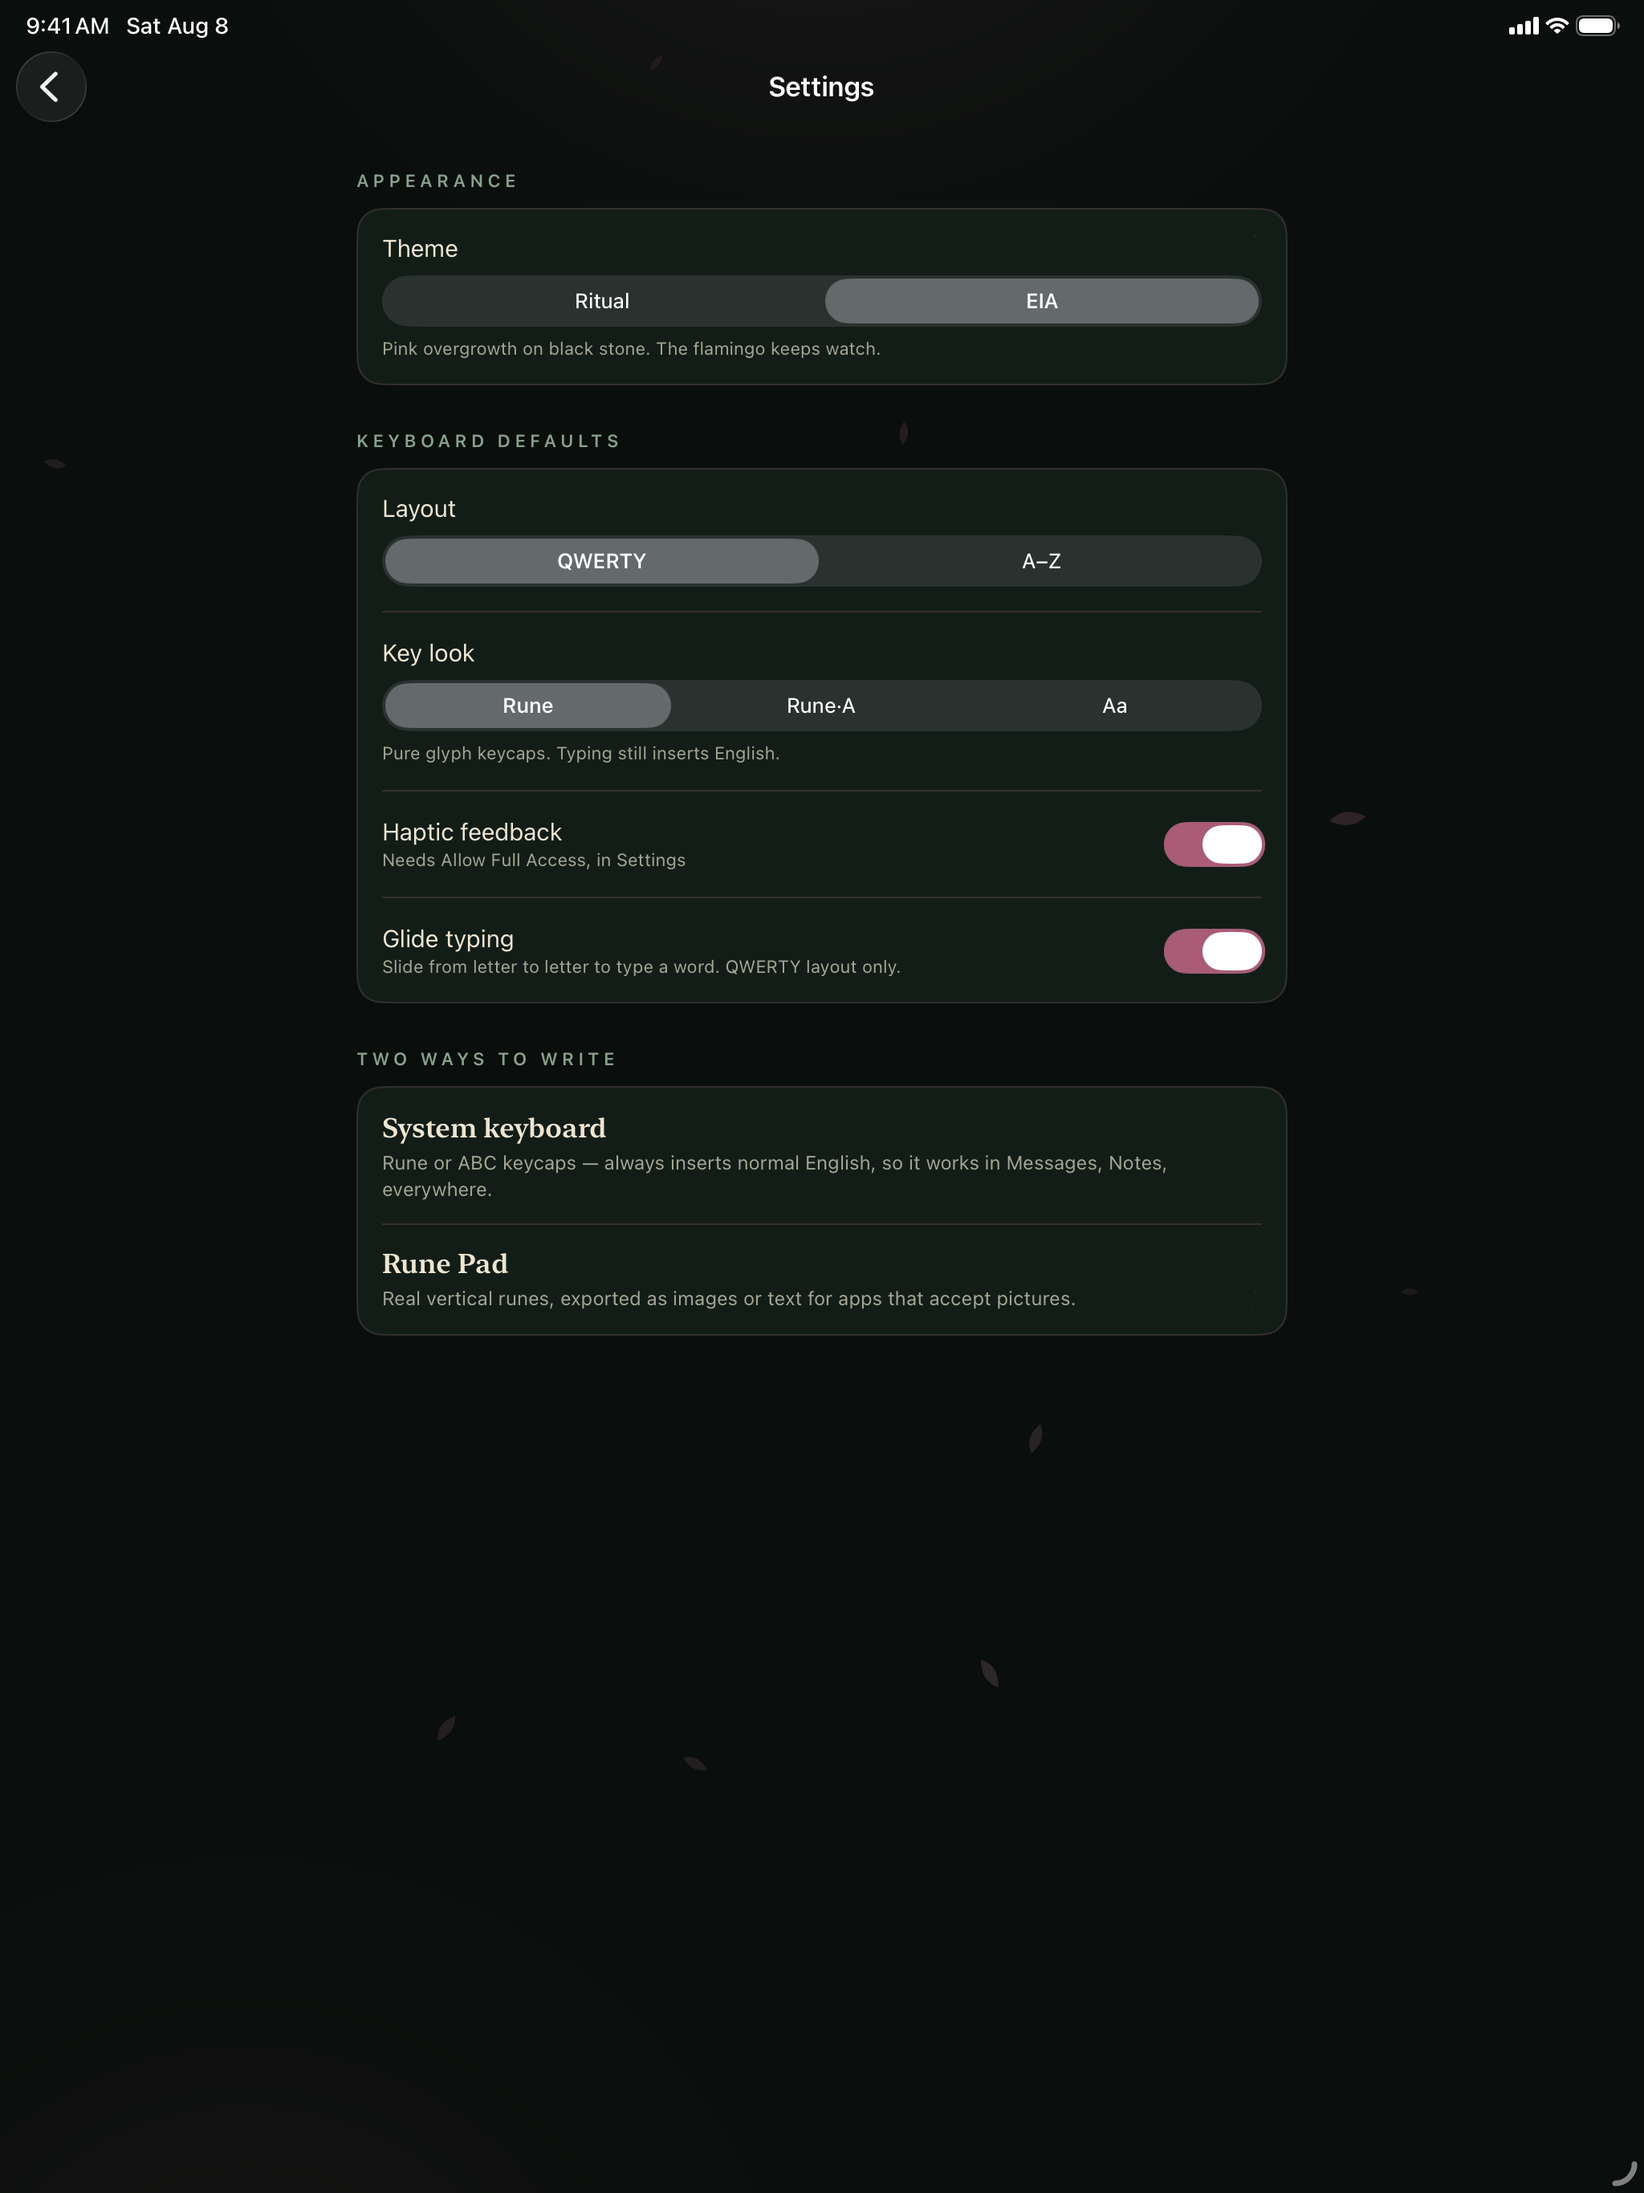
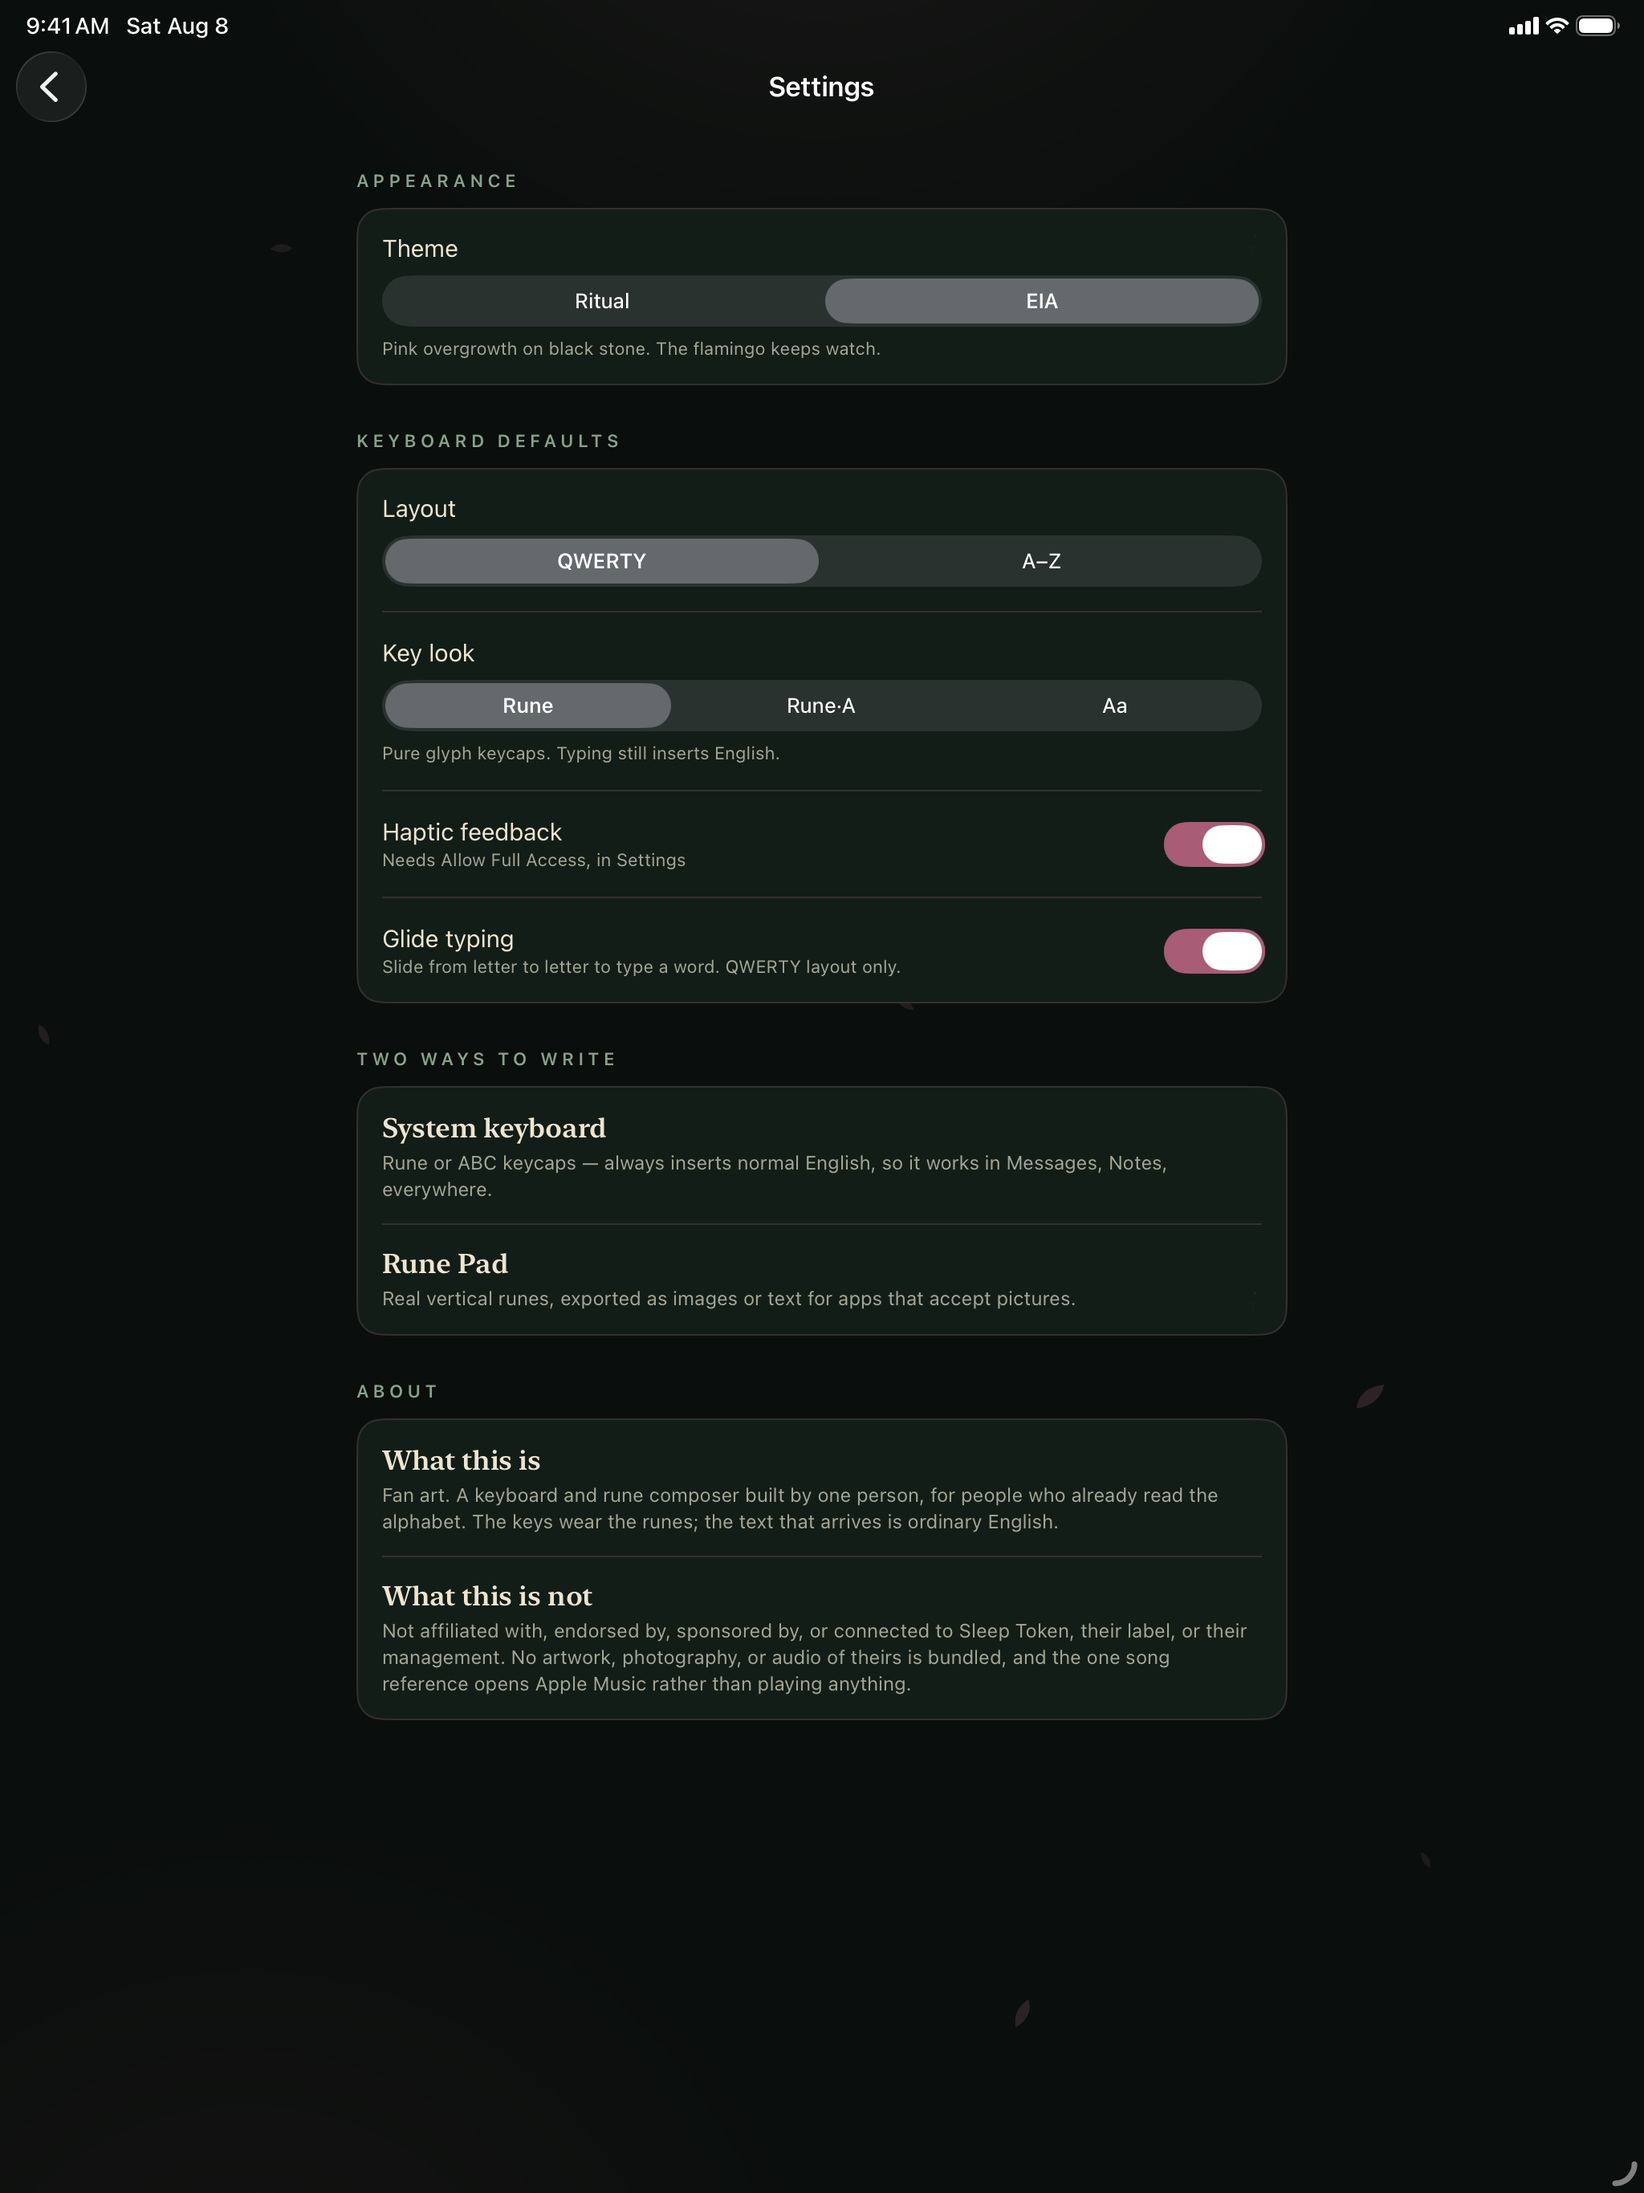
State plainly what this project is and is not
The rename made this worse rather than better: "Ceremonial Scripts" tells a
newcomer nothing about whose alphabet this is, so someone arriving without context
now has less to go on than when the app was named after the thing it does.
PRODUCT.md already asked for labelling that is part of the design and for first-run
comprehension without context; one line in the home footer was not that.

Settings gains an About section carrying "What this is" and "What this is not". It
reuses the waysRow shape from "Two ways to write" exactly -- same card, same type
roles -- so it reads as native rather than as a legal block bolted to the bottom.
It deliberately hides no Jerry: a new spot would raise the hunt's totalCount, and
the one card whose job is to be unambiguous is the wrong place to hide something.

The README carried the band's name as its own H1 and told users to look for "Sleep
Token KB" in Settings, which the rename had made false. Both are fixed, along with
the OG image generators that baked the old name into rendered art, and a test-count
badge that had drifted to 252.

The Legal section no longer speculates that public distribution "would need rights
clearance" -- a lay legal conclusion in a document the App Store listing links to.
It now states what is verifiable instead: no rights are claimed in the name,
iconography or alphabet, nothing of theirs ships, the font is generated in-repo,
and the reference art is gitignored so it cannot reach a build.
[…]

diff --git a/SleepTokenKB/SettingsView.swift b/SleepTokenKB/SettingsView.swift
@@ -86,6 +86,31 @@ struct SettingsView: View {
                         .ritualCard()
                     }
                 }
+
+                // Last, because that is where a reader looks for it -- but in the
+                // same card and row language as everything above, not shrunk into a
+                // footnote. Principle 5 in PRODUCT.md asks for labelling that is part
+                // of the design, and a legal-looking block at the bottom of a settings
+                // screen is exactly the afterthought it warns about.
+                //
+                // No HiddenJerry here on purpose: a new spot would raise the hunt's
+                // totalCount, and the one card whose job is to be unambiguous is not
+                // the place to hide something.
+                VStack(alignment: .leading, spacing: 10) {
+                    SectionLabel(text: "About")
+                    VStack(alignment: .leading, spacing: 14) {
+                        waysRow(
+                            title: "What this is",
+                            detail: "Fan art. A keyboard and rune composer built by one person, for people who already read the alphabet. The keys wear the runes; the text that arrives is ordinary English."
+                        )
+                        Rectangle().fill(Theme.hairline).frame(height: 1)
+                        waysRow(
+                            title: "What this is not",
+                            detail: "Not affiliated with, endorsed by, sponsored by, or connected to Sleep Token, their label, or their management. No artwork, photography, or audio of theirs is bundled, and the one song reference opens Apple Music rather than playing anything."
+                        )
+                    }
+                    .ritualCard()
+                }
             }
             .padding(20)
             .readableColumn()

diff --git a/scripts/og/devices.py b/scripts/og/devices.py
@@ -424,8 +424,8 @@ def build():
                  rgba(ROSE, 235), tracking=px(3.5))
 
     # wordmark
-    f_word = fit_font(d, "Sleep Token KB", F_NEWYORK, COL_W, 60.0, "Semibold")
-    d.text((px(X) - px(1.5), px(276)), "Sleep Token KB", font=f_word,
+    f_word = fit_font(d, "Ceremonial Scripts", F_NEWYORK, COL_W, 60.0, "Semibold")
+    d.text((px(X) - px(1.5), px(276)), "Ceremonial Scripts", font=f_word,
            fill=INK + (255,), anchor="ls")
 
     # rune ornament: s l e e p t o k e n  (with a word gap)

diff --git a/scripts/og/glyph.py b/scripts/og/glyph.py
@@ -451,7 +451,7 @@ def build():
                  kick_font, (142, 148, 134, 255), 3.4 * SS, anchor="ms")
 
     wm_font = var_font(NY, int(63 * SS), weight=450, optical=256)
-    draw_tracked(d, CW / 2, 474 * SS, "Sleep Token KB", wm_font, INK + (255,),
+    draw_tracked(d, CW / 2, 474 * SS, "Ceremonial Scripts", wm_font, INK + (255,),
                  2.4 * SS, anchor="ms")
 
     desc_font = var_font(SF, int(13.5 * SS), weight=530, optical=20)

diff --git a/scripts/og/editorial.py b/scripts/og/editorial.py
@@ -517,7 +517,7 @@ def build():
     f_foot = font(F_SF, 12.8, "Regular")
 
     RUNES = rune_text("sleep") + " " + rune_text("token")
-    MARK = "Sleep Token KB"
+    MARK = "Ceremonial Scripts"
     DECK = "The ritual alphabet, on every key."
     META = "26 GLYPHS  ·  3 KEY FACES  ·  2 THEMES  ·  RUNE PAD"
     FOOT = "github.com/thechrisgrey/sleep-token-kb"

diff --git a/README.md b/README.md
@@ -1,13 +1,13 @@
 <div align="center">
 
-# Sleep Token KB
+# Ceremonial Scripts
 
 **A custom iOS system keyboard that puts the ritual alphabet on your keys — and a composer that writes real vertical runes.**
 
 [![Platform](https://img.shields.io/badge/platform-iOS%2026.5%2B-C8A968?style=for-the-badge&logo=apple&logoColor=white&labelColor=0E0D0F)](https://developer.apple.com/ios/)
 [![Swift](https://img.shields.io/badge/Swift-5.0-DE9BA9?style=for-the-badge&logo=swift&logoColor=white&labelColor=0E0D0F)](https://swift.org)
 [![SwiftUI](https://img.shields.io/badge/SwiftUI-native-C8A968?style=for-the-badge&logo=swift&logoColor=white&labelColor=0E0D0F)](https://developer.apple.com/xcode/swiftui/)
-[![Tests](https://img.shields.io/badge/tests-252%20passing-4F7A5C?style=for-the-badge&logo=checkmarx&logoColor=white&labelColor=0E0D0F)](#testing)
+[![Tests](https://img.shields.io/badge/tests-285%20passing-4F7A5C?style=for-the-badge&logo=checkmarx&logoColor=white&labelColor=0E0D0F)](#testing)
 [![License](https://img.shields.io/badge/license-MIT-C8A968?style=for-the-badge&labelColor=0E0D0F)](LICENSE)
 
 [![Targets](https://img.shields.io/badge/targets-3-DE9BA9?style=flat-square&labelColor=1A1820)](#project-structure)
@@ -21,7 +21,7 @@
 
 <br>
 
-<img src="docs/og-image.png" width="880" alt="Sleep Token KB — the ritual alphabet, on every key">
+<img src="docs/og-image.png" width="880" alt="Ceremonial Scripts — the ritual alphabet, on every key">
 
 </div>
 
@@ -448,8 +448,8 @@ The keyboard's ID must stay a suffix of the app's, and both targets need the App
 iOS never auto-enables a third-party keyboard. Once, after installing:
 
 1. Open **Settings** (the app has a button that deep-links straight there)
-2. Tap **Keyboards** on the Sleep Token KB page — or go the long way: **General → Keyboard → Keyboards**
-3. Turn on **Sleep Token KB**
+2. Tap **Keyboards** on the Ceremonial Scripts page — or go the long way: **General → Keyboard → Keyboards**
+3. Turn on **Ceremonial Scripts**
 4. In any text field, long-press the **globe** key and pick it
 
 Missing from the list? Force-quit Settings, reinstall the app, try again. Extensions only appear after the host app has been installed at least once.
@@ -648,11 +648,11 @@ in the web UI.
 
 ## Legal
 
-**Unofficial fan project. Not affiliated with, endorsed by, or connected to Sleep Token or their rights holders.**
+**Unofficial fan art. Not affiliated with, endorsed by, sponsored by, or connected to Sleep Token, their label, or their management.**
 
-Sleep Token's names, iconography, and the ritual alphabet are almost certainly protected. This is fine for personal and TestFlight use; public App Store distribution would need rights clearance and clear "not affiliated" labeling.
+This project claims no rights in Sleep Token's name, iconography, or the ritual alphabet, and never presents itself as theirs. What it ships is its own work: the rune font is generated from vectors in this repository by `scripts/build_rune_font.py`, and the code is MIT licensed.
 
-No album artwork, photography, or audio is included in this repository. The Damocles reward opens the official Apple Music listing — it does not bundle, stream, or reproduce the recording.
+No album artwork, photography, or audio is included in this repository. The Damocles reward opens the official Apple Music listing — it does not bundle, stream, or reproduce the recording. Reference art under `even-in-arcadia(theme)/` is gitignored specifically so it cannot reach a build.
 
 The code is [MIT licensed](LICENSE).
 
